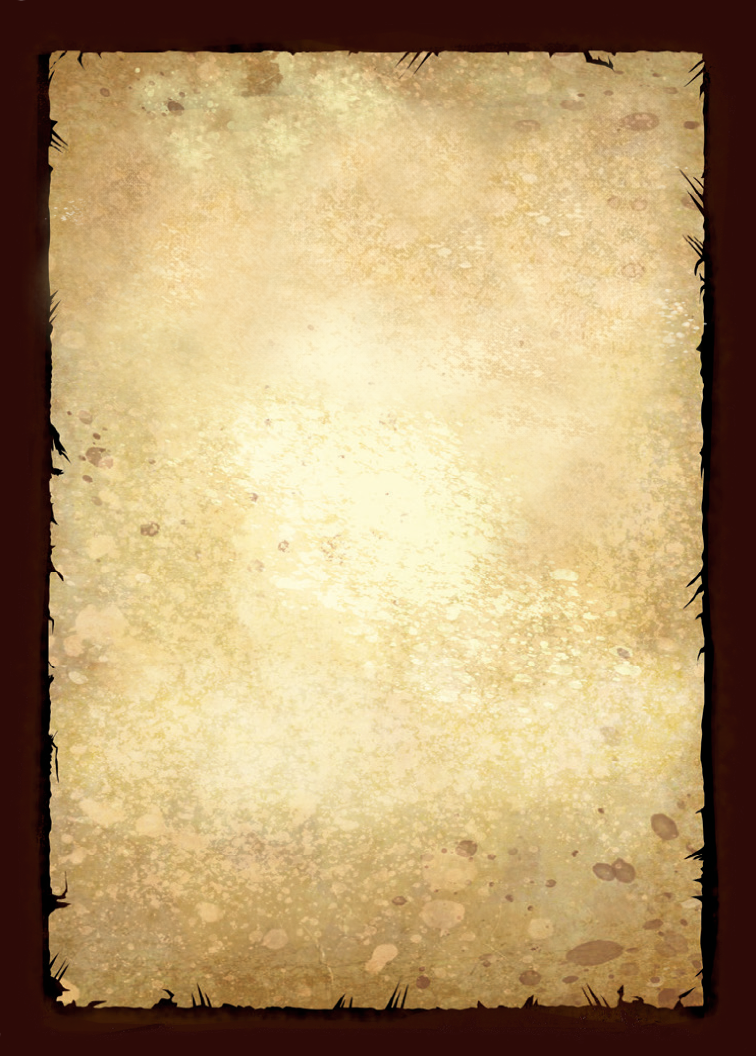
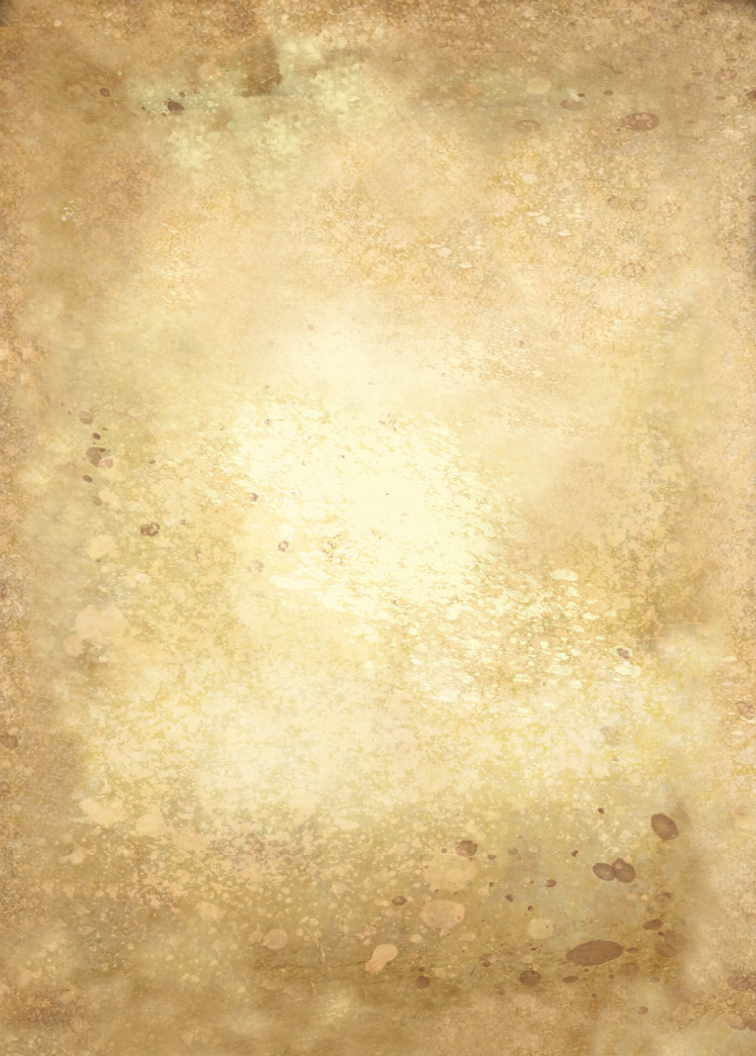
Add treasure background tint control and rendering
- Persist background tint on card data/records
- Add inspector field for small/large treasure
- Apply tint to treasure background-frame via SVG overlay
- Add blueprint tintKey and i18n label

Changed region(s): [[0.0, 0.0, 1.0, 1.0]]

diff --git a/src/components/Cards/CardInspector/BackgroundTintField.tsx b/src/components/Cards/CardInspector/BackgroundTintField.tsx
@@ -1,0 +1,128 @@
+"use client";
+
+import { Droplet } from "lucide-react";
+import { useEffect, useMemo, useRef } from "react";
+import { useController, useFormContext } from "react-hook-form";
+
+import layoutStyles from "@/app/page.module.css";
+import FormLabelWithIcon from "@/components/Cards/CardInspector/FormLabelWithIcon";
+import ColorPickerField from "@/components/common/ColorPickerField";
+import { useCardEditor } from "@/components/Providers/CardEditorContext";
+import { usePreviewCanvas } from "@/components/Providers/PreviewCanvasContext";
+import { usePopupState } from "@/hooks/usePopupState";
+import { useSmartSwatches } from "@/hooks/useSmartSwatches";
+import { formatHexColor, isTransparentHex, parseHexColor } from "@/lib/color";
+import type { TemplateId } from "@/types/templates";
+
+const TRANSPARENT_TINT = "transparent";
+const DEFAULT_TINT_COLOR = "#FFFFFF";
+const SMART_CANVAS_WIDTH = 300;
+const SMART_CANVAS_HEIGHT = 420;
+
+type BackgroundTintFieldProps = {
+  label: string;
+  templateId: TemplateId;
+};
+
+export default function BackgroundTintField({ label, templateId }: BackgroundTintFieldProps) {
+  const { control, setValue } = useFormContext();
+  const {
+    state: { draftTemplateId, draft, isDirtyByTemplate },
+    setCardDraft,
+  } = useCardEditor();
+  const { renderPreviewCanvas } = usePreviewCanvas();
+  const { smartGroups, isSmartBusy, requestSmart } = useSmartSwatches({
+    renderPreviewCanvas,
+    width: SMART_CANVAS_WIDTH,
+    height: SMART_CANVAS_HEIGHT,
+  });
+  const popoverState = usePopupState();
+
+  const { field } = useController({ name: "backgroundTint", control });
+  const tintValue = typeof field.value === "string" ? field.value : "";
+  const normalizedSelected = useMemo(() => normalizeTintColor(tintValue), [tintValue]);
+  const inputValue =
+    normalizedSelected === TRANSPARENT_TINT ? "" : normalizeHexValue(normalizedSelected);
+  const savedColorRef = useRef<string | undefined>(undefined);
+  const draftTint =
+    draftTemplateId === templateId && draft
+      ? (draft as { backgroundTint?: string } | undefined)?.backgroundTint
+      : undefined;
+
+  useEffect(() => {
+    if (!isDirtyByTemplate[templateId]) {
+      savedColorRef.current = draftTint?.trim() ? draftTint.trim() : undefined;
+    }
+  }, [draftTint, isDirtyByTemplate, templateId]);
+
+  const handleRevert = () => {
+    const saved = normalizeTintColor(savedColorRef.current);
+    const nextColor = saved === TRANSPARENT_TINT ? TRANSPARENT_TINT : saved.toUpperCase();
+    setValue("backgroundTint", nextColor, { shouldDirty: true, shouldTouch: true });
+
+    const currentDraft =
+      draftTemplateId === templateId && draft ? (draft as { backgroundTint?: string }) : {};
+    setCardDraft(templateId, { ...currentDraft, backgroundTint: nextColor } as never);
+  };
+
+  const handleSelectDefault = () => {
+    setValue("backgroundTint", undefined, { shouldDirty: true, shouldTouch: true });
+  };
+
+  const handleRequestSmart = async () => {
+    if (isSmartBusy) return;
+    await requestSmart();
+  };
+
+  return (
+    <div className="mb-2">
+      <div className={layoutStyles.inspectorFieldHeader}>
+        <FormLabelWithIcon label={label} icon={Droplet} className="form-label" />
+      </div>
+      <ColorPickerField
+        label={label}
+        showLabel={false}
+        inputValue={inputValue ?? DEFAULT_TINT_COLOR}
+        selectedValue={normalizedSelected}
+        defaultColor={DEFAULT_TINT_COLOR}
+        transparentValue={TRANSPARENT_TINT}
+        smartGroups={smartGroups}
+        isSmartBusy={isSmartBusy}
+        onRequestSmart={handleRequestSmart}
+        onChange={(value) => field.onChange(value)}
+        onSelectDefault={handleSelectDefault}
+        onSelectTransparent={() => field.onChange(TRANSPARENT_TINT)}
+        canRevert={hasRevert(tintValue, savedColorRef.current)}
+        onRevert={handleRevert}
+        isOpen={popoverState.isOpen}
+        onToggleOpen={popoverState.toggle}
+        onClose={popoverState.close}
+        popoverAlign="auto"
+        popoverVAlign="center"
+      />
+    </div>
+  );
+}
+
+function normalizeHexValue(value: string | undefined): string | null {
+  const parsed = parseHexColor(value);
+  if (!parsed) return null;
+  return formatHexColor(parsed, { alphaMode: "preserve", case: "upper" });
+}
+
+function isTransparentColor(value?: string) {
+  if (!value) return false;
+  if (value.trim().toLowerCase() === TRANSPARENT_TINT) return true;
+  return isTransparentHex(value);
+}
+
+function normalizeTintColor(value?: string) {
+  if (isTransparentColor(value)) return TRANSPARENT_TINT;
+  return normalizeHexValue(value) ?? DEFAULT_TINT_COLOR;
+}
+
+function hasRevert(current: string, saved: string | undefined) {
+  const normalizedCurrent = normalizeTintColor(current);
+  const normalizedSaved = normalizeTintColor(saved);
+  return normalizedCurrent !== normalizedSaved;
+}

diff --git a/src/components/BlueprintRenderer/index.tsx b/src/components/BlueprintRenderer/index.tsx
@@ -220,11 +220,13 @@ function renderBackgroundLayer({
   layer,
   background,
   backgroundLoaded,
+  cardData,
 }: {
   blueprint: Blueprint;
   layer: BlueprintLayer;
   background?: StaticImageData;
   backgroundLoaded?: boolean;
+  cardData?: CardDataByTemplate[TemplateId];
 }) {
   if (layer.type !== "background") return null;
 
@@ -234,6 +236,11 @@ function renderBackgroundLayer({
   if (!image) return null;
 
   const bounds = getLayerBounds(blueprint, layer);
+  const tintKey = "tintKey" in layer ? layer.tintKey : undefined;
+  const tintValue =
+    tintKey && cardData ? (cardData as Record<string, unknown>)[tintKey] : undefined;
+  const tint =
+    typeof tintValue === "string" && tintValue.trim().length > 0 ? tintValue.trim() : undefined;
   const cutoutBounds = "cutoutBounds" in layer ? layer.cutoutBounds : undefined;
   const maskId = cutoutBounds ? `${blueprint.templateId}-${layer.id}-cutout-mask` : undefined;
   const opacity = backgroundLoaded === false ? 0 : 1;
@@ -260,18 +267,31 @@ function renderBackgroundLayer({
           </mask>
         </defs>
       ) : null}
-      <image
-        href={image.src}
-        data-card-background="true"
-        data-template-asset="background"
-        x={bounds.x}
-        y={bounds.y}
-        width={bounds.width}
-        height={bounds.height}
-        preserveAspectRatio="xMidYMid meet"
-        style={{ opacity }}
-        mask={maskId ? `url(#${maskId})` : undefined}
-      />
+      <g style={tint ? { isolation: "isolate" } : undefined}>
+        <image
+          href={image.src}
+          data-card-background="true"
+          data-template-asset="background"
+          x={bounds.x}
+          y={bounds.y}
+          width={bounds.width}
+          height={bounds.height}
+          preserveAspectRatio="xMidYMid meet"
+          style={{ opacity }}
+          mask={maskId ? `url(#${maskId})` : undefined}
+        />
+        {tint ? (
+          <rect
+            x={bounds.x}
+            y={bounds.y}
+            width={bounds.width}
+            height={bounds.height}
+            fill={tint}
+            style={{ mixBlendMode: "multiply", opacity }}
+            mask={maskId ? `url(#${maskId})` : undefined}
+          />
+        ) : null}
+      </g>
     </Layer>
   );
 }
@@ -1582,7 +1602,13 @@ export default function BlueprintRenderer(props: BlueprintRendererProps) {
     <>
       {blueprint.layers.map((layer) => {
         if (layer.type === "background") {
-          return renderBackgroundLayer({ blueprint, layer, background, backgroundLoaded });
+          return renderBackgroundLayer({
+            blueprint,
+            layer,
+            background,
+            backgroundLoaded,
+            cardData: props.cardData,
+          });
         }
         if (layer.type === "border") {
           return renderBorderLayer({

diff --git a/src/components/Cards/CardInspector/GenericInspectorForm.tsx b/src/components/Cards/CardInspector/GenericInspectorForm.tsx
@@ -14,6 +14,7 @@ import type { CardDataByTemplate } from "@/types/card-data";
 import type { TemplateId } from "@/types/templates";
 
 import BorderColorField from "./BorderColorField";
+import BackgroundTintField from "./BackgroundTintField";
 import ContentField from "./ContentField";
 import CopyrightField from "./CopyrightField";
 import HeroStatsInspector from "./HeroStatsInspector";
@@ -175,6 +176,15 @@ export default function GenericInspectorForm({ templateId }: GenericInspectorFor
           if (field.fieldType === "borderColor") {
             return (
               <BorderColorField
+                key={`${field.bind}-${index}`}
+                label={t(field.labelKey)}
+                templateId={templateId}
+              />
+            );
+          }
+          if (field.fieldType === "backgroundTint") {
+            return (
+              <BackgroundTintField
                 key={`${field.bind}-${index}`}
                 label={t(field.labelKey)}
                 templateId={templateId}

diff --git a/src/data/inspector-fields.ts b/src/data/inspector-fields.ts
@@ -105,6 +105,11 @@ export const inspectorFieldsByTemplate: InspectorFieldsByTemplate = {
       labelKey: "form.borderColor",
     },
     {
+      fieldType: "backgroundTint",
+      bind: "backgroundTint",
+      labelKey: "form.backgroundTint",
+    },
+    {
       fieldType: "copyright",
       bind: "copyright",
       labelKey: "form.copyright",
@@ -136,6 +141,11 @@ export const inspectorFieldsByTemplate: InspectorFieldsByTemplate = {
       fieldType: "borderColor",
       bind: "borderColor",
       labelKey: "form.borderColor",
+    },
+    {
+      fieldType: "backgroundTint",
+      bind: "backgroundTint",
+      labelKey: "form.backgroundTint",
     },
     {
       fieldType: "copyright",

diff --git a/src/lib/card-record-mapper.ts b/src/lib/card-record-mapper.ts
@@ -43,6 +43,7 @@ export function cardRecordToCardData<T extends TemplateId>(
     imageOriginalWidth: record.imageOriginalWidth,
     imageOriginalHeight: record.imageOriginalHeight,
     borderColor: record.borderColor,
+    backgroundTint: record.backgroundTint,
   };
 
   switch (record.templateId) {
@@ -134,6 +135,7 @@ export function cardDataToCardRecordPatch<T extends TemplateId>(
     imageOriginalWidth: data.imageOriginalWidth,
     imageOriginalHeight: data.imageOriginalHeight,
     borderColor: data.borderColor,
+    backgroundTint: data.backgroundTint,
   };
 
   switch (templateId) {

diff --git a/src/types/inspector.ts b/src/types/inspector.ts
@@ -55,6 +55,12 @@ export type InspectorBorderColorField = {
   labelKey: MessageKey;
 };
 
+export type InspectorBackgroundTintField = {
+  fieldType: "backgroundTint";
+  bind: "backgroundTint";
+  labelKey: MessageKey;
+};
+
 export type InspectorCopyrightField = {
   fieldType: "copyright";
   bind: "copyright";
@@ -70,6 +76,7 @@ export type InspectorField =
   | InspectorImageField
   | InspectorMonsterIconField
   | InspectorBorderColorField
+  | InspectorBackgroundTintField
   | InspectorCopyrightField;
 
 export type InspectorFieldsByTemplate = Record<TemplateId, InspectorField[]>;

diff --git a/src/data/blueprints.ts b/src/data/blueprints.ts
@@ -93,6 +93,7 @@ const SMALL_TREASURE_BLUEPRINT: Blueprint = {
       type: "background",
       source: "template",
       cutoutBounds: scaleBounds({ x: 122, y: 166, width: 506, height: 180 }),
+      tintKey: "backgroundTint",
     },
     {
       id: "artwork",
@@ -186,6 +187,7 @@ const LARGE_TREASURE_BLUEPRINT: Blueprint = {
       type: "background",
       source: "template",
       cutoutBounds: scaleBounds({ x: 123, y: 167, width: 509, height: 359 }),
+      tintKey: "backgroundTint",
     },
     {
       id: "artwork",

diff --git a/src/i18n/messages/en.ts b/src/i18n/messages/en.ts
@@ -122,6 +122,7 @@ export const en = {
   "label.titleStylePlain": "Plain",
   "label.resetColor": "Reset to default colour",
   "form.borderColor": "Border colour",
+  "form.backgroundTint": "Background tint",
   "form.copyright": "Copyright",
   "form.showCopyright": "Show copyright",
   "form.defaultCopyright": "Default copyright",

diff --git a/src/types/blueprints.ts b/src/types/blueprints.ts
@@ -42,6 +42,7 @@ export type BlueprintLayerBackground = BlueprintLayerBase & {
   source?: "template" | "asset";
   asset?: StaticImageData;
   cutoutBounds?: BlueprintBounds;
+  tintKey?: string;
 };
 
 export type BlueprintLayerBorder = BlueprintLayerBase & {

diff --git a/src/types/card-data.ts b/src/types/card-data.ts
@@ -21,6 +21,7 @@ export interface BaseCardFields {
   imageOriginalHeight?: number;
   description?: string;
   borderColor?: string;
+  backgroundTint?: string;
   copyright?: string;
   copyrightColor?: string;
   showCopyright?: boolean;

diff --git a/src/types/cards-db.ts b/src/types/cards-db.ts
@@ -41,6 +41,7 @@ export interface CardRecord {
   imageOriginalWidth?: number;
   imageOriginalHeight?: number;
   borderColor?: string;
+  backgroundTint?: string;
 
   heroAttackDice?: StatValue;
   heroDefendDice?: StatValue;
